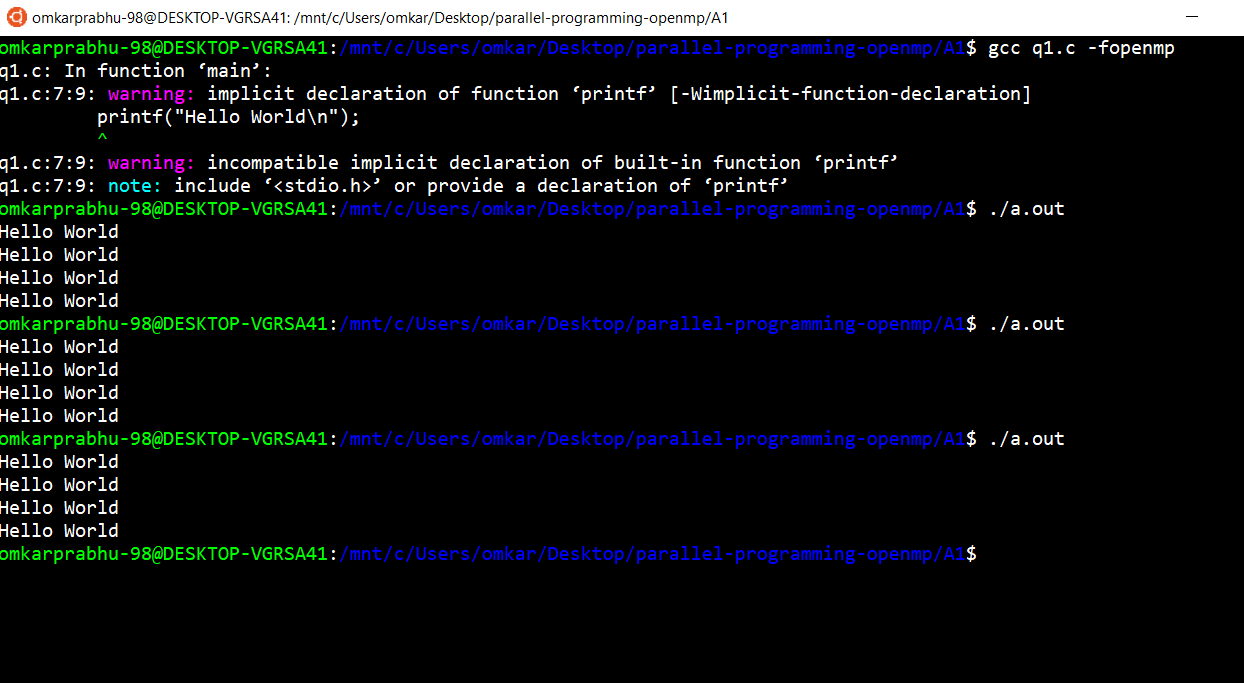
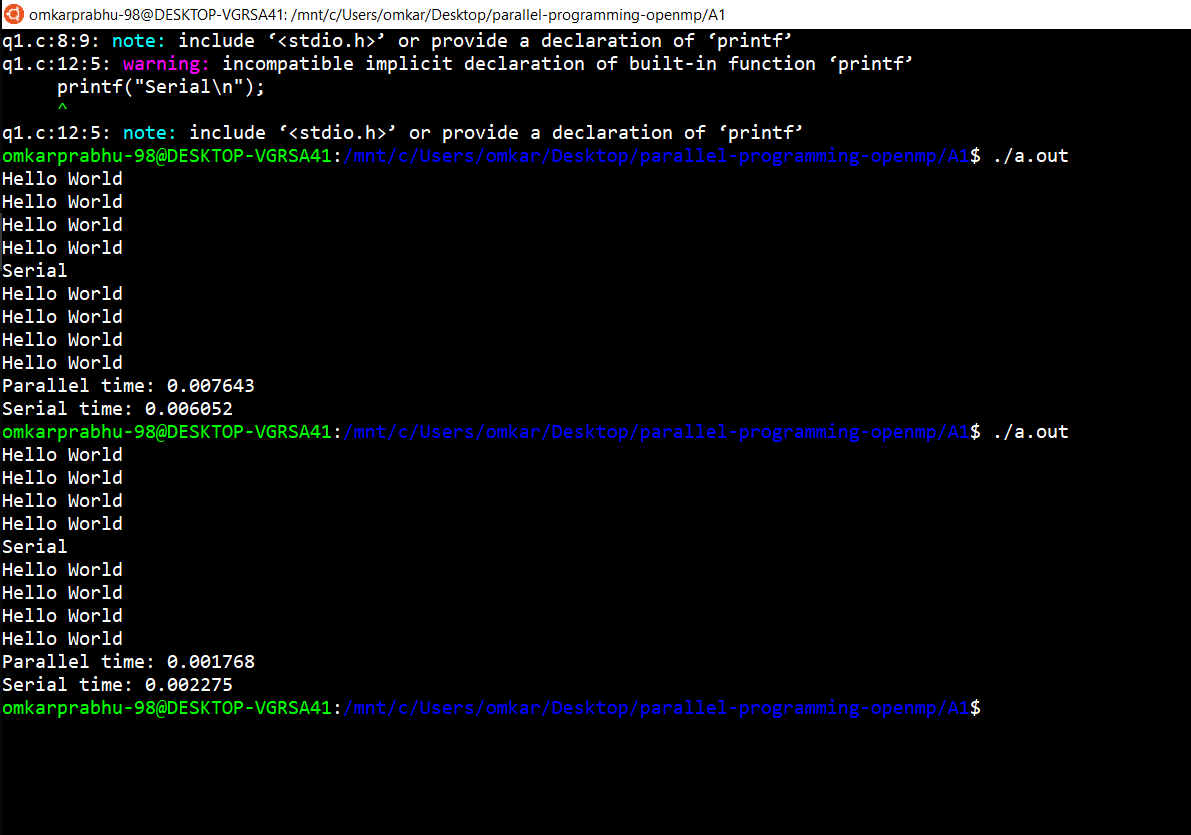
Q1, Q2 modified

Changed region(s): [[0.0, 0.0, 1.0, 0.8609]]

diff --git a/A1/q1.c b/A1/q1.c
@@ -1,9 +1,23 @@
 #include "omp.h" /* OpenMP compiler directives, APIs are declared here */
 
 void main() {
+    double start_time = omp_get_wtime();
     /* Parallel region begins here */
     #pragma omp parallel
     {
         printf("Hello World\n");
     }
+    double time_parallel =  omp_get_wtime() - start_time;
+
+    printf("Serial\n");
+    start_time = omp_get_wtime();
+    // serial 4 times
+    for (int i = 0; i < 4; i++) {
+        printf("Hello World\n");
+    }
+    double time_serial =  omp_get_wtime() - start_time;
+    
+    // results
+    printf("Parallel time: %lf\n", time_parallel);
+    printf("Serial time: %lf\n", time_serial);
 }

diff --git a/A1/q2.c b/A1/q2.c
@@ -5,10 +5,24 @@ void printHelloWorld(int threadId) {
 }
 
 void main() {
+    double start_time = omp_get_wtime();
     /* Parallel region begins here */
     #pragma omp parallel
     {
         int id = omp_get_thread_num();
         printHelloWorld(id);
     }
+    double time_parallel =  omp_get_wtime() - start_time;
+
+    printf("Serial\n");
+    start_time = omp_get_wtime();
+    // serial 4 times 
+    for (int i = 0; i < 4; i++) {
+        printHelloWorld(i);
+    }
+    double time_serial =  omp_get_wtime() - start_time;
+
+    // results
+    printf("Parallel time: %lf\n", time_parallel);
+    printf("Serial time: %lf\n", time_serial);
 }
